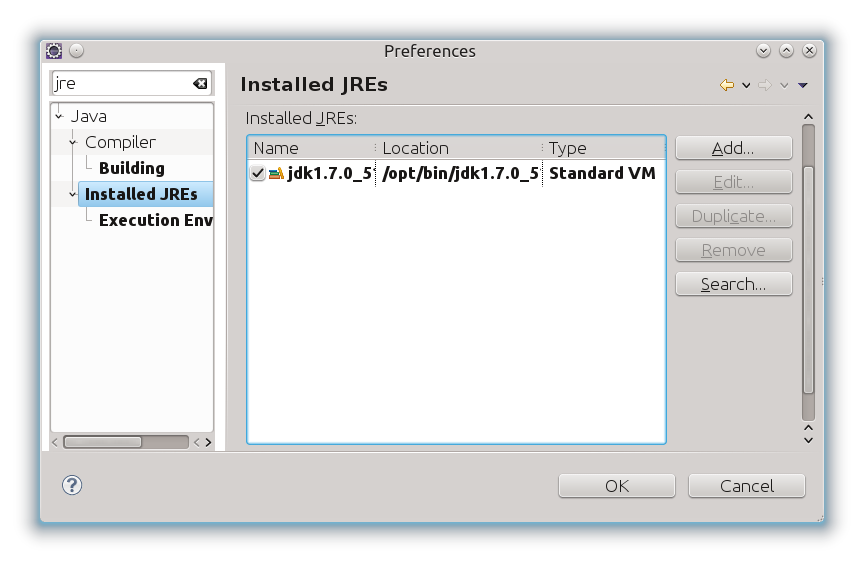
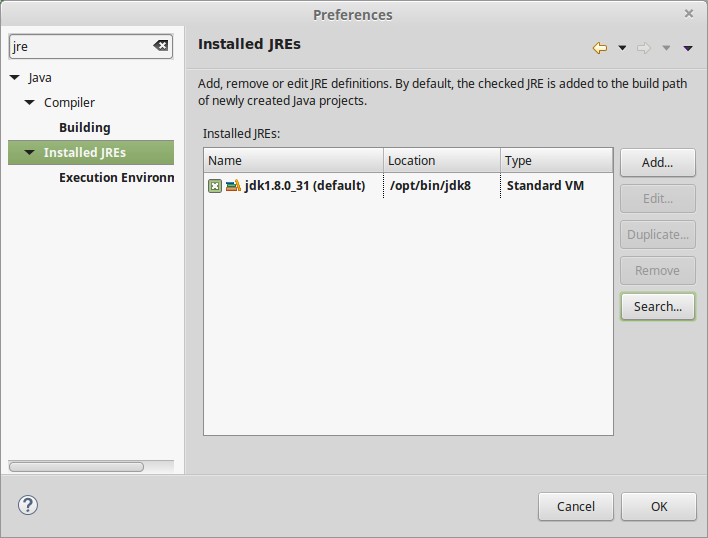
mise à jour du chapitre 1

diff --git a/01_environnement_developpement.html b/01_environnement_developpement.html
@@ -37,15 +37,15 @@
 			<h2>Téléchargement des outils</h2>
 			<p>La liste des outils requis est :</p>
 			<dl>
-				<dt>Java 7 JDK</dt>
-				<dd>Le kit de développement Java 7<br/>
-				<em><a class="explicit" target="download" href="http://www.oracle.com/technetwork/java/javase/downloads/jdk7-downloads-1880260.html">
-				http://www.oracle.com/technetwork/java/javase/downloads/jdk7-downloads-1880260.html
+				<dt>Java 8 JDK</dt>
+				<dd>Le kit de développement Java 8<br/>
+				<em><a class="explicit" href="http://www.oracle.com/technetwork/java/javase/downloads/jdk8-downloads-2133151.html">
+				http://www.oracle.com/technetwork/java/javase/downloads/jdk8-downloads-2133151.html
 				</a></em>
 				<aside>
-					<header>Java SE ou JDK ?</header>
-					<p>Il existe deux distribution de Java par Oracle : Java SE (Standard Edition) et le JDK (Java development kit).
-					Java SE permet uniquement l'exécution des programmes Java. Le JDK fournit en plus un compilateur et des outils utiles
+					<header>JRE ou JDK ?</header>
+					<p>Il existe deux distribution de Java par Oracle : JRE (Java Runtime Edition) et le JDK (Java development kit).
+					Le JRE permet uniquement l'exécution des programmes Java. Le JDK fournit en plus un compilateur et des outils utiles
 					aux développeurs. Il est donc nécessaire d'installer le JDK pour développer des applications
 					en Java mais également pour exécuter le serveur TomEE.</p>
 				</aside>
@@ -53,8 +53,8 @@
 
 				<dt>Eclipse IDE for Java EE Web Developpers</dt>
 				<dd>L'environnement de développement<br/>
-				<em><a class="explicit" target="download" href="https://www.eclipse.org/downloads/packages/eclipse-ide-java-ee-developers/keplersr1">
-				https://www.eclipse.org/downloads/packages/eclipse-ide-java-ee-developers/keplersr1
+				<em><a class="explicit" href="http://www.eclipse.org/downloads/packages/eclipse-ide-java-ee-developers/lunasr1a">
+				http://www.eclipse.org/downloads/packages/eclipse-ide-java-ee-developers/lunasr1a
 				</a></em>
 				<aside class="warn">
 					<p>Il existe plusieurs distributions d'Eclipse. Il est impératif d'installer <strong>la version pour le développement Java EE</strong>.
@@ -64,10 +64,11 @@
 				</dd>
 				<dt>Apache TomEE Plus</dt>
 				<dd>Le serveur d'application Java EE<br/>
-				Windows : <em><a class="explicit" target="download" href="http://archive.apache.org/dist/tomee/tomee-1.6.0/apache-tomee-1.6.0-plus.zip">
-				http://archive.apache.org/dist/tomee/tomee-1.6.0/apache-tomee-1.6.0-plus.zip</a></em><br>
-				MacOS et Linux : <em><a class="explicit" target="download" href="http://archive.apache.org/dist/tomee/tomee-1.6.0/apache-tomee-1.6.0-plus.tar.gz">
-				http://archive.apache.org/dist/tomee/tomee-1.6.0/apache-tomee-1.6.0-plus.tar.gz
+				Windows : <em><a class="explicit" href="http://www.apache.org/dyn/closer.cgi/tomee/tomee-1.7.1/apache-tomee-1.7.1-plus.zip">
+				http://www.apache.org/dyn/closer.cgi/tomee/tomee-1.7.1/apache-tomee-1.7.1-plus.zip
+				</a></em><br>
+				MacOS et Linux : <em><a class="explicit" href="http://www.apache.org/dyn/closer.cgi/tomee/tomee-1.7.1/apache-tomee-1.7.1-plus.tar.gz">
+				http://www.apache.org/dyn/closer.cgi/tomee/tomee-1.7.1/apache-tomee-1.7.1-plus.tar.gz
 				</a></em>
 				<aside>
 					<p>Nous verrons bientôt que les applications Java EE ne sont pas des programmes indépendants (standalone). Les applications Java EE sont déployées et exécutées dans ce que l'on appelle un serveur d'application qui fournit l'environnement d'exécution nécessaire.</p>
@@ -78,7 +79,7 @@
 
 		<section>
 			<h2>Installation des outils</h2>
-			<p>L'installation du JDK 7 dépend de votre plate-forme : il est distribué sous la forme d'un installeur pour Windows et MacOS, et sous la forme d'un package ou d'une archive sous Linux.</p>
+			<p>L'installation du JDK dépend de votre plate-forme : il est distribué sous la forme d'un installeur pour Windows et MacOS, et sous la forme d'un package ou d'une archive sous Linux.</p>
 			<p>Eclipse et TomEE sont distribués sous la forme d'une archive (tar.gz pour Linux et MacOS et zip pour Windows) que vous pouvez décompresser où vous le souhaitez.</p>
 		</section>
 		
@@ -87,15 +88,15 @@
 			<p>Après avoir lancé Eclipse, il va falloir vérifier la version de Java utilisée par l'IDE et la modifier si nécessaire.</p>
 			<p>Pour vérifier les versions de Java disponibles dans Eclipse, ouvrez les préférences utilisateur : menu "Window &gt; Preferences".
 			Dans la zone de filtre en haut à gauche, saisissez "jre" (pour Java Runtime Environment) et sélectionnez dans l'arbre "Installed JREs" comme ci-dessous&nbsp;:</p>
-			<img width="60%" alt="JRE installés dans Eclipse" src="assets/eclipse_installed_jre.png">
+			<img alt="JRE installés dans Eclipse" src="assets/eclipse_installed_jre.png">
 			<p>Vérifiez que le JDK que vous avez installé se trouve bien dans la liste des JRE détectés par Eclipse. De plus le JDK doit être coché pour indiquer à Eclipse qu'il s'agit de l'environnement d'exécution à utiliser par défaut pour tous les projets.</p>
 			<p><strong>Si vous ne trouvez pas le JDK installé dans la liste</strong>, utilisez le bouton "Add..." pour l'ajouter manuellement&nbsp;:</p>
 			<ol>
 				<li>Pour le choix du type de JRE, choisissez "Standard VM" et cliquez sur "Next"</li>
-				<li>Dans la boîte de dialogue "Edit JRE", cliquez sur le bouton "Directory..." pour sélectionner le répertoire d'installation du JDK</li>
+				<li>Dans la boîte de dialogue "Add JRE", cliquez sur le bouton "Directory..." pour sélectionner le répertoire d'installation du JDK</li>
 				<li>Eclipse s'occupe ensuite de remplir les champs nécessaires et vous n'avez plus qu'à cliquer sur "Finish"</li>
 			</ol>
-			<img width="60%" alt="Définition d'une JRE dans Eclipse" src="assets/eclipse_jre_definition.png">
+			<img alt="Définition d'une JRE dans Eclipse" src="assets/eclipse_jre_definition.png">
 			<aside class="warn">
 				<p>N'oubliez pas de cocher la ligne de votre JDK dans l'écran "Installed JREs" pour qu'il devienne l'environnement d'exécution par défaut.</p>
 			</aside>
@@ -107,20 +108,20 @@
 			<p>Dans Eclipse Java EE, il existe une vue pour créer et gérer les serveurs. Pour ajouter cette vue, il faut passer par
 			le menu "Window &gt; Show View &gt; Servers".</p>
 			<p>Vous avez maintenant la vue "Servers" ajoutée à votre perspective de développement. Faites un click droit dans cette vue pour sélectionner "New &gt; Server".</p>
-			<p>Dans la boîte de dialogue "Define a New Server", sélectionnez "Apache &gt; Tomcat v7.0 Server" comme type de serveur. Vous pouvez également changer le nom
-			du nouveau serveur par quelque chose de plus exact comme "TomEE 1.6.0 Server at localhost".</p>
-			<img width="60%" alt="Ajout d'un serveur dans Eclipse" src="assets/eclipse_new_server.png">
+			<p>Dans la boîte de dialogue "Define a New Server", sélectionnez <strong>"Apache &gt; Tomcat v7.0 Server"</strong> comme type de serveur. Vous pouvez également changer le nom
+			du nouveau serveur par quelque chose de plus exact comme "TomEE 1.7.1 Server at localhost".</p>
+			<img alt="Ajout d'un serveur dans Eclipse" src="assets/eclipse_new_server.png">
 			<p>Cliquez ensuite sur "Next". Dans la boîte de dialoge "Tomcat Server", cliquez sur "Browse..." pour sélectionner le répertoire d'installation de TomEE sur votre disque.</p>
-			<img width="60%" alt="Ajout d'un serveur dans Eclipse" src="assets/eclipse_new_server2.png">
+			<img alt="Ajout d'un serveur dans Eclipse" src="assets/eclipse_new_server2.png">
 			<p>Cliquez ensuite sur "Finish".</p>
 			<p>Vous disposez maintenant d'un serveur dans votre vue "Servers". Il ne vous reste plus qu'à le démarrer en faisant un click droit sur son nom et en sélectionnant "Start".</p>
-			<p>Si tout se passe bien, à la fin du lancement, vous pourrez accéder à votre serveur à l'adresse <a class="explicit" target="localhost" href="http://localhost:8080">http://localhost:8080</a>.
+			<p>Si tout se passe bien, à la fin du lancement, vous pourrez accéder à votre serveur à l'adresse <a class="explicit" href="http://localhost:8080">http://localhost:8080</a>.
 			Vous devez voir s'afficher une page d'erreur 404. Votre serveur fonctionne correctement mais aucune application Java EE n'est encore déployée pour répondre à cette adresse.</p>
 
 			<aside>
 				<header>Tomcat ou TomEE ?</header>
-				<p>Pour l'intégration dans Eclipse, il vous est demandé de choisir Tomcat 7 comme type de serveur et TomEE n'est pas présent dans la liste proposée par Eclipse.
-				Nous reviendrons plus tard sur la différence entre Tomcat et TomEE. Pour l'instant, il suffit de savoir que TomEE 1.6.0 est un packaging de Tomcat 7 auquel on a ajouté
+				<p>Pour l'intégration dans Eclipse, il vous est demandé de choisir Apache Tomcat 7 comme type de serveur et TomEE n'est pas présent dans la liste proposée par Eclipse.
+				Nous reviendrons plus tard sur la différence entre Tomcat et TomEE. Pour l'instant, il suffit de savoir que TomEE 1.7.1 est un packaging de Tomcat 7 auquel on a ajouté
 				tout ce qui est nécessaire pour exécuter des applications Java EE.
 				</p>
 			</aside>
